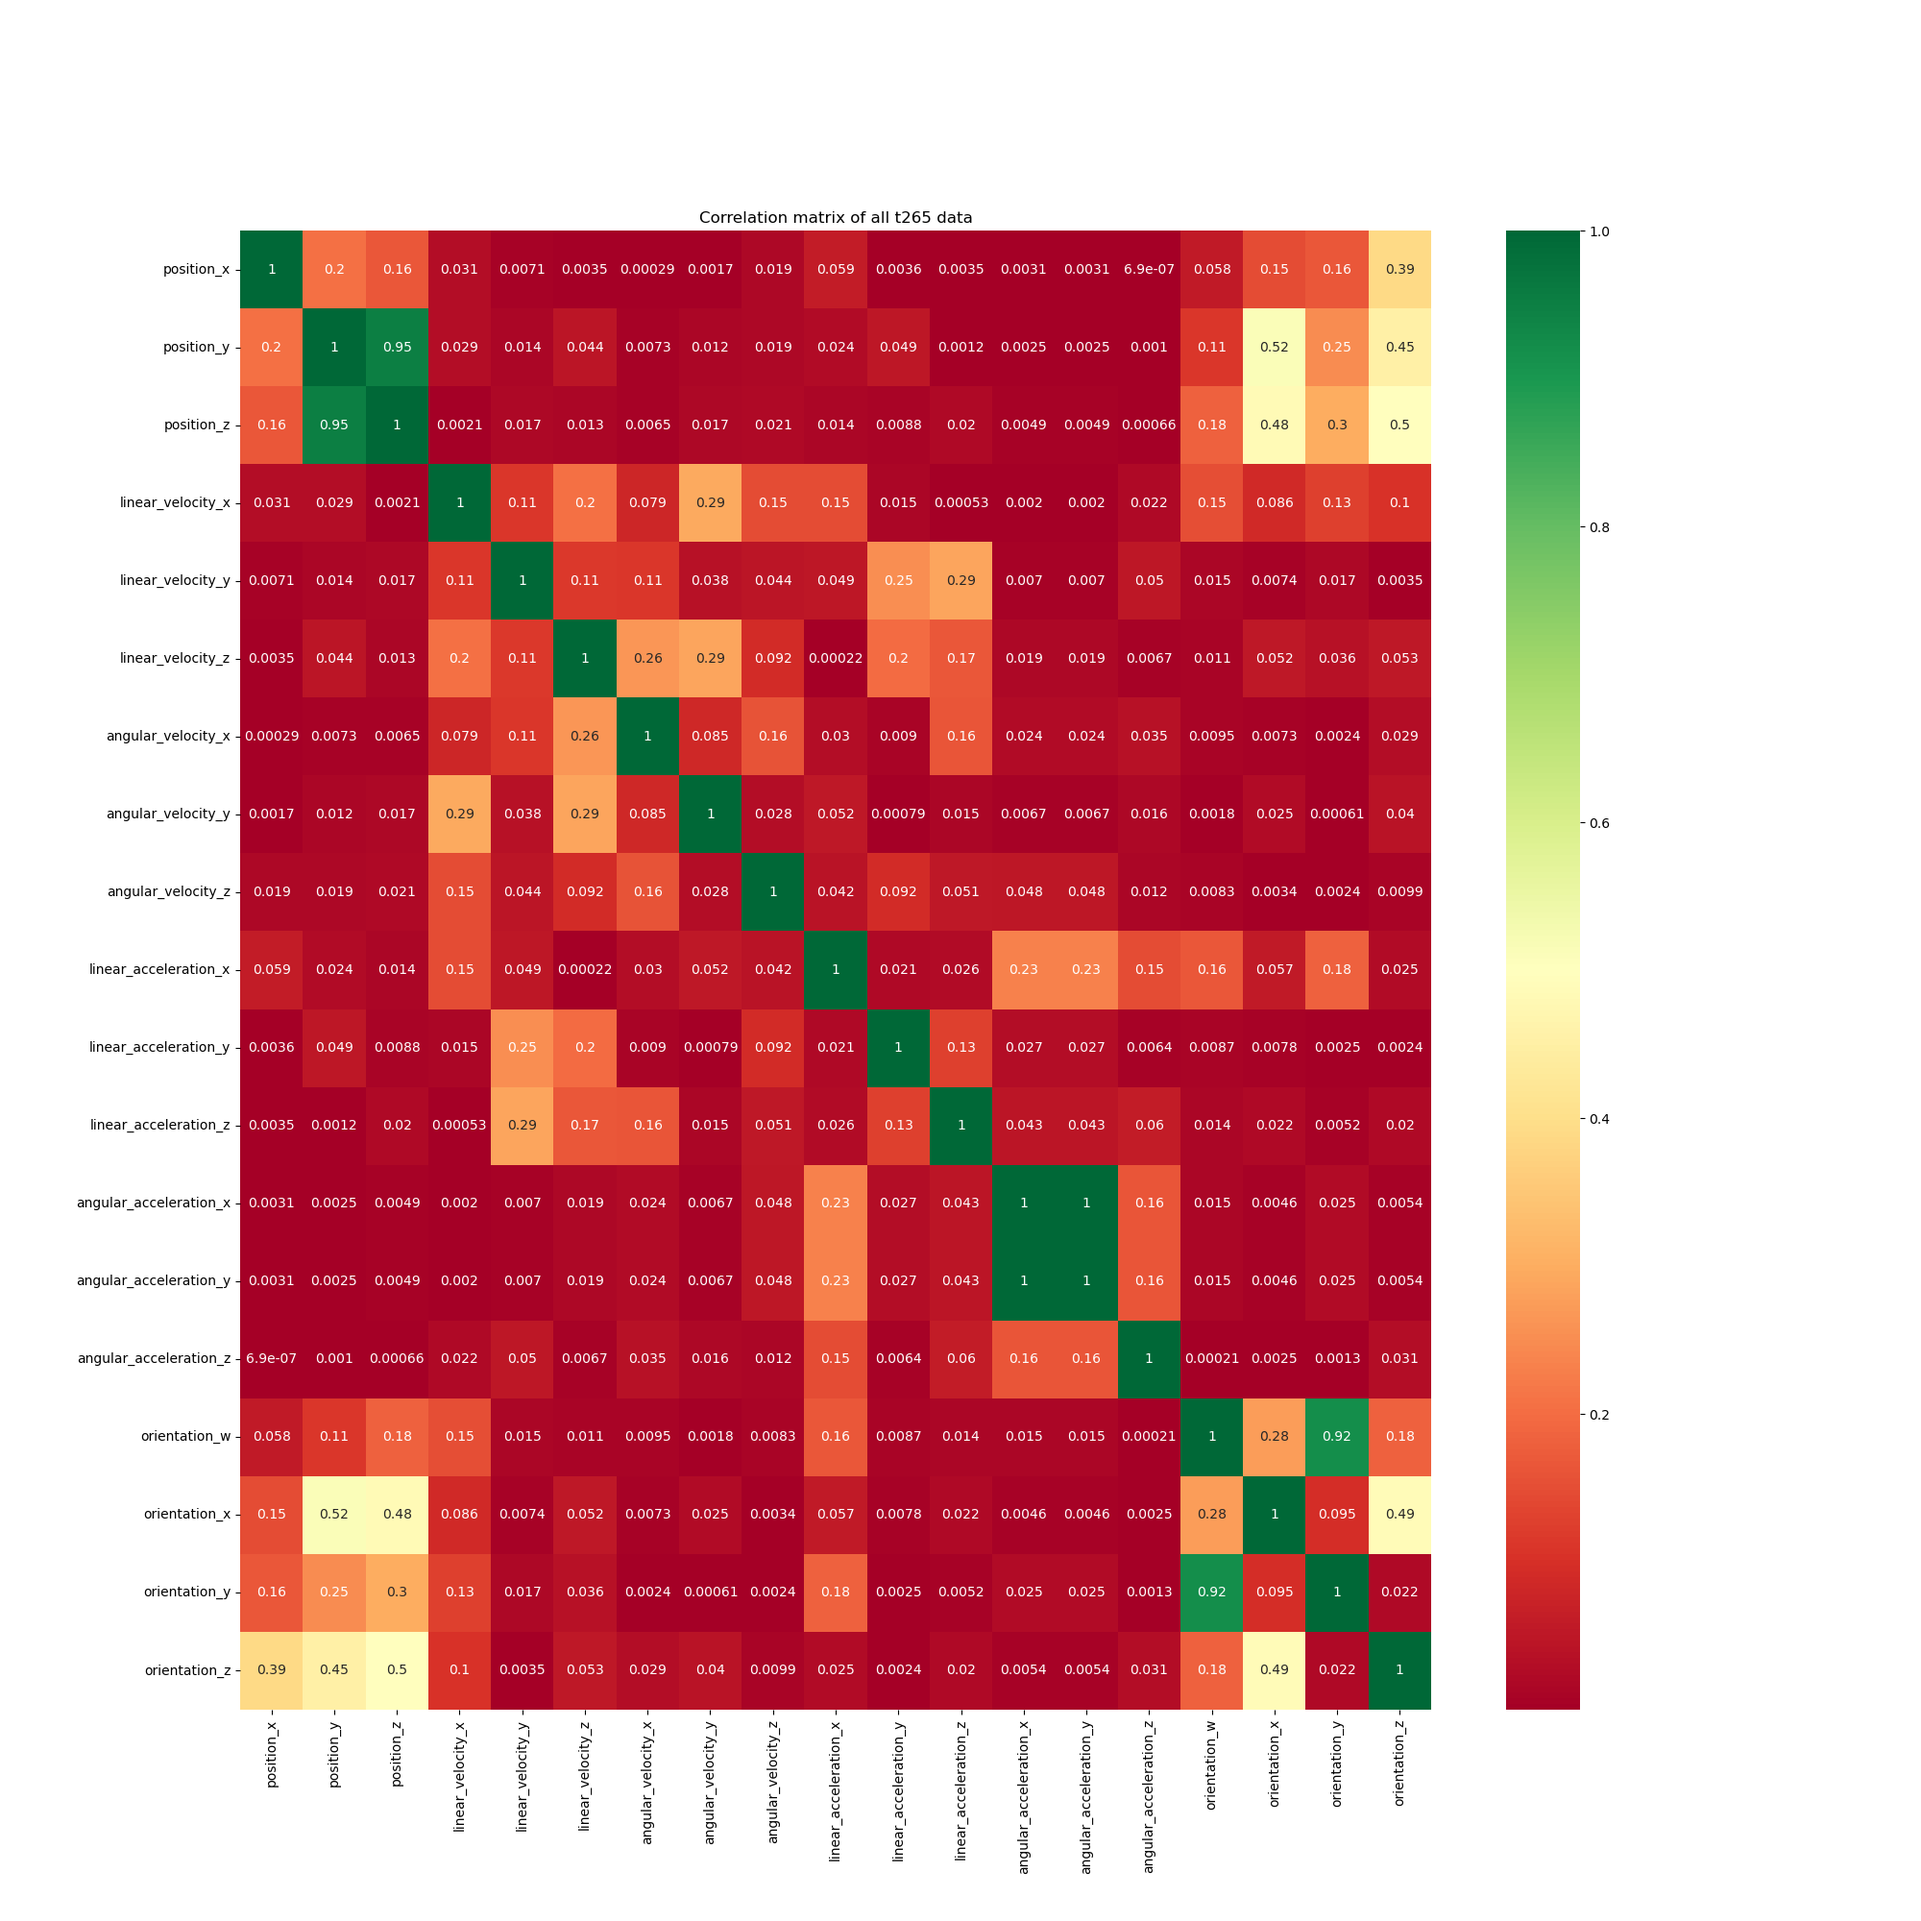
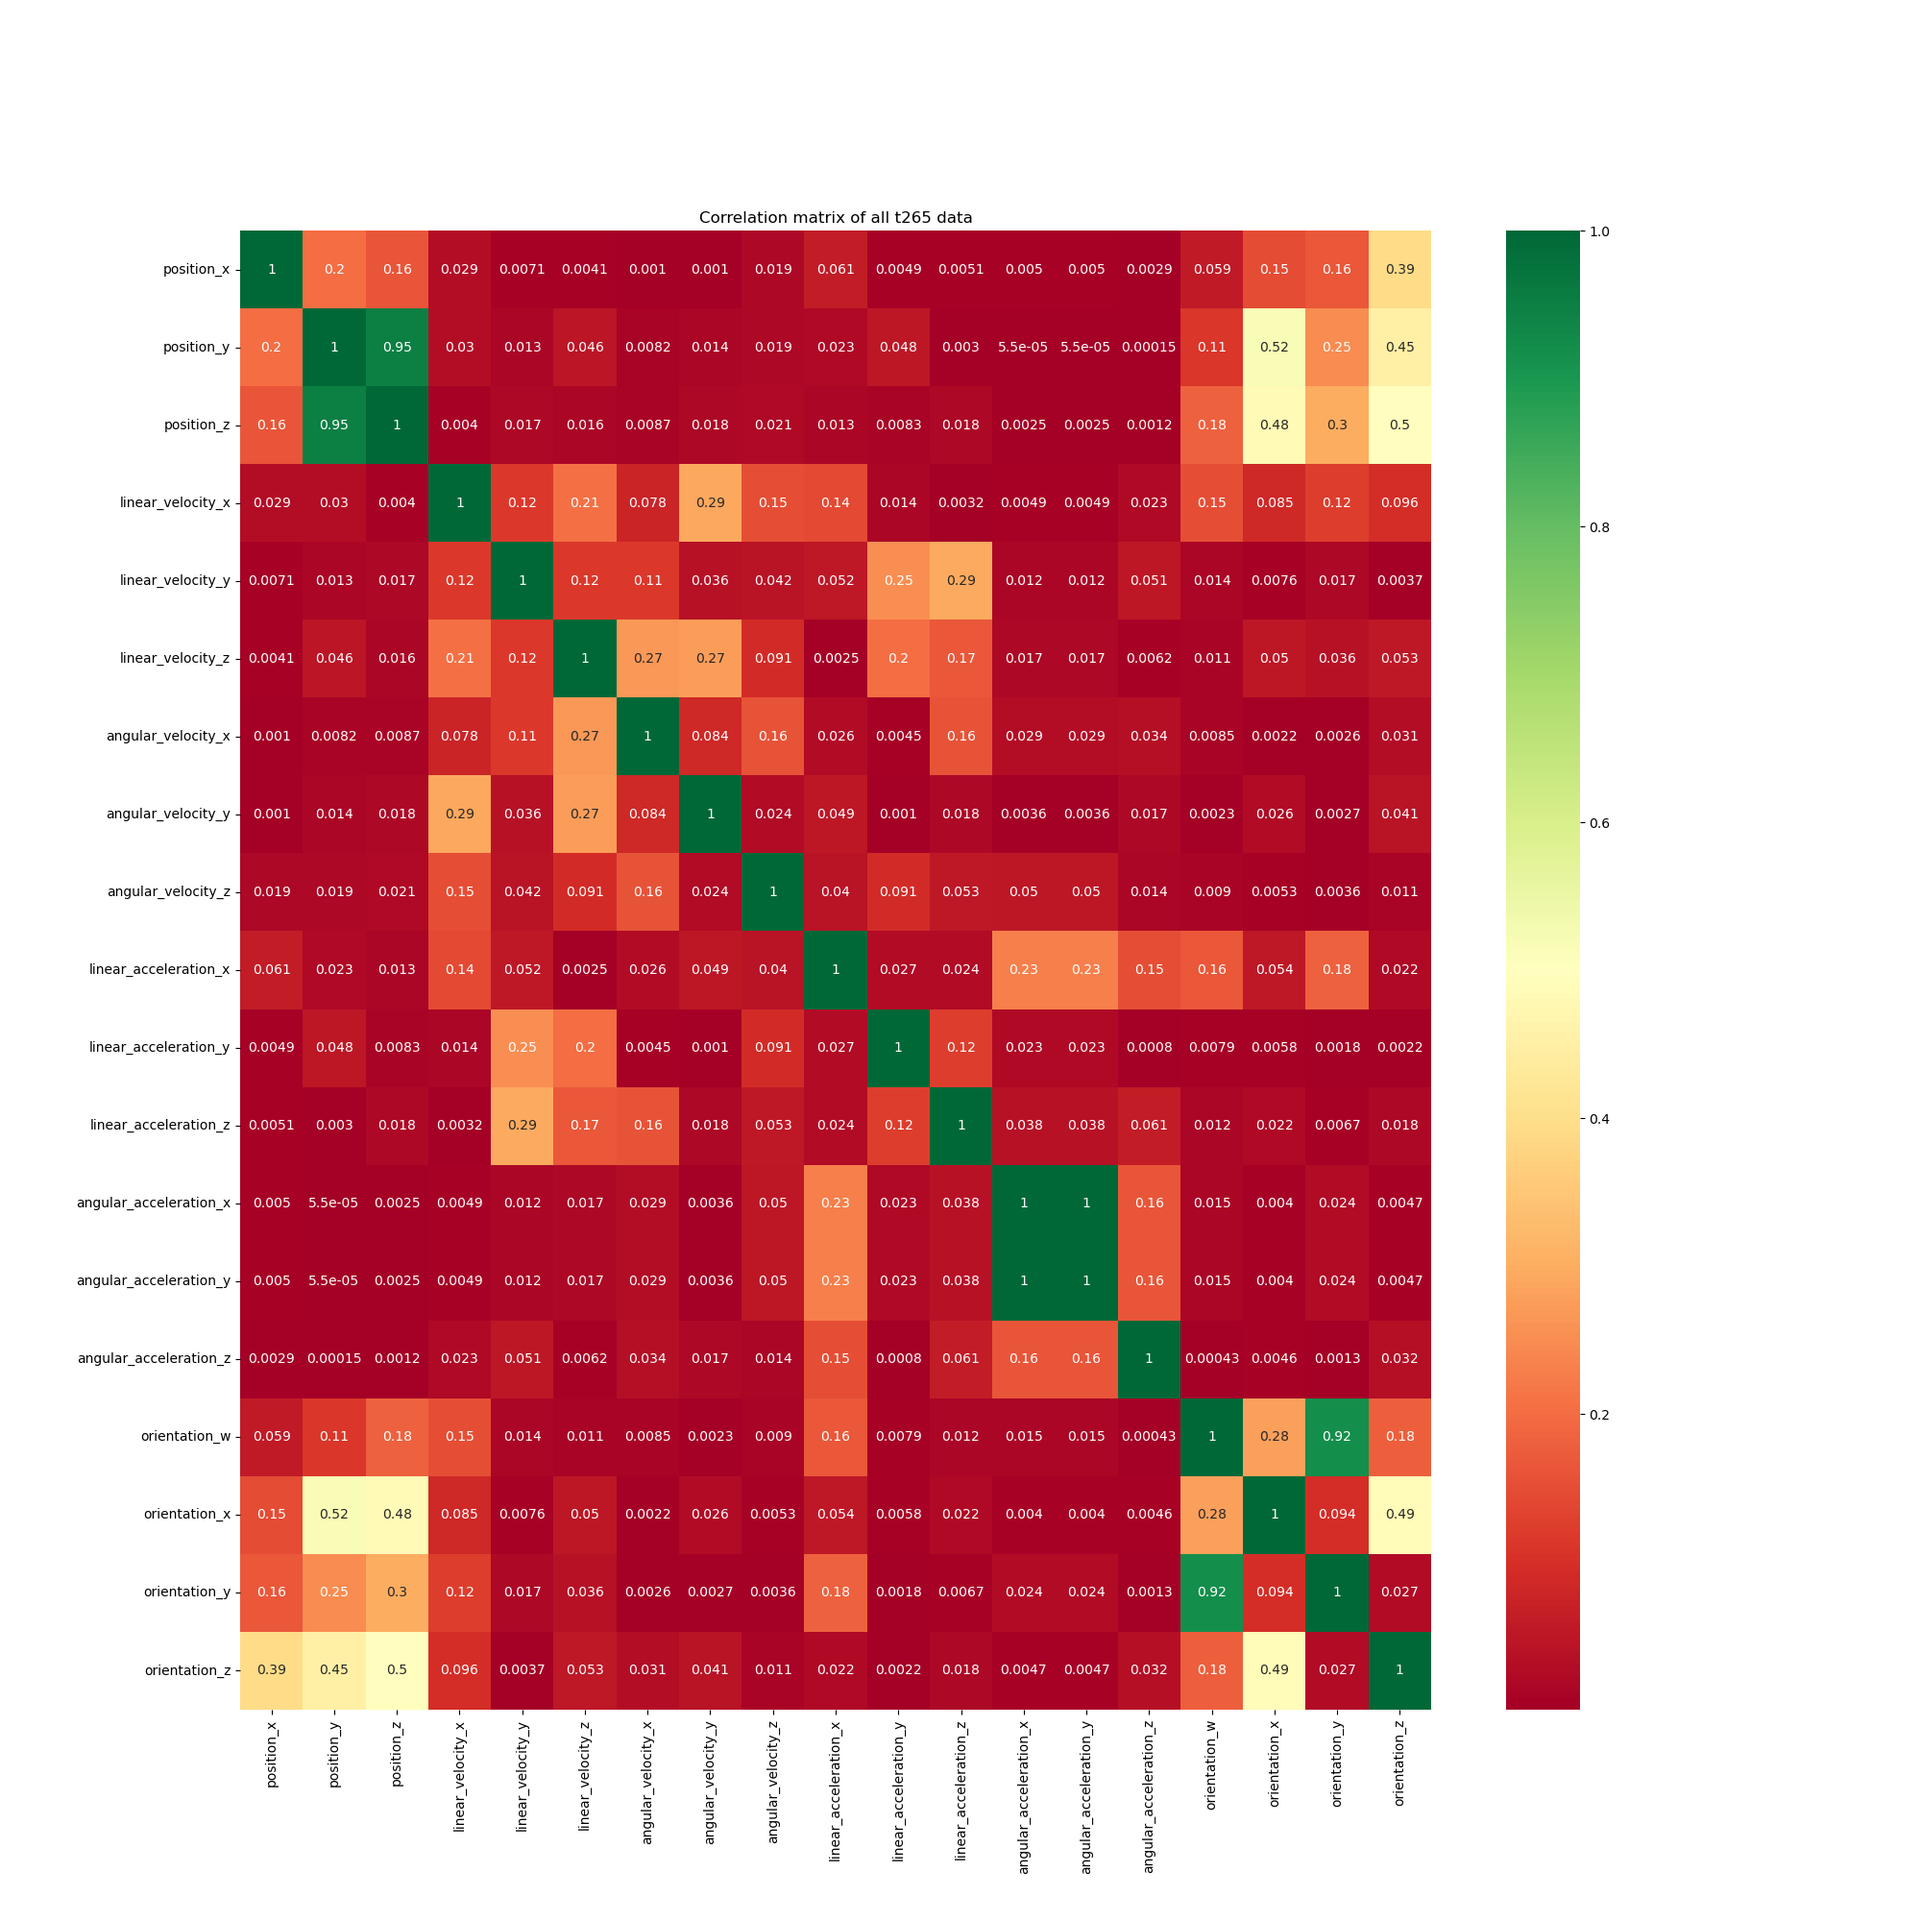
Probability plots

diff --git a/walk_predictor_t265.py b/walk_predictor_t265.py
@@ -18,6 +18,9 @@ import seaborn as sns
 from sklearn.ensemble import GradientBoostingClassifier
 from sklearn.model_selection import GridSearchCV
 from sklearn.metrics import accuracy_score
+from scipy import stats
+from sklearn.preprocessing import StandardScaler
+
 class WalkPredictor():
     def __init__(self):
         print('initialize WalkPredictor')
@@ -103,13 +106,26 @@ class WalkPredictor():
         self.y = DataFrame(self.odometry.labels.values, columns=['labels'])
         self.x_train, self.x_test, self.y_train, self.y_test = train_test_split(self.x,self.y, train_size=0.8)
     def pre_process(self):
+        # #Scale data 
+        scaler = StandardScaler()
+        scaled_data = scaler.fit(self.x_train).transform(self.x_train)
+        self.x_train = DataFrame(scaled_data, columns = self.x_train.columns)
+        scaled_data_test = scaler.fit(self.x_test).transform(self.x_test)
+        self.x_test = DataFrame(scaled_data_test, columns = self.x_test.columns)
+        #Log Transform - Should I transform or scale first?
+        # for col_name in self.x_train.columns:
+        #     self.x_train[col_name] = np.log10(self.x_train[col_name])
+        #     self.x_test[col_name] = np.log10(self.x_test[col_name])
         # Find features with correlation greater than 0.90
         corr_matrix = np.abs(self.x_train.astype(float).corr())
         upper = corr_matrix.where(np.triu(np.ones(corr_matrix.shape), k=1).astype(np.bool))
-        to_drop = [column for column in upper.columns if any(upper[column] >= 0.88)]
+        to_drop = [column for column in upper.columns if any(upper[column] >= 0.75)]
         self.x_train = self.x_train.drop(columns=to_drop)
         self.x_test = self.x_test.drop(columns=to_drop)
-        print(f'features to drop: {to_drop}')
+        print(f'features to drop (coef > 0.75): {to_drop}')
+        #Probability plots - normal distribution
+        for col_name in self.x_train.columns:
+            self.prob_plots(col_name)
         #plot heat map
         top_corr_features = corr_matrix.index
         plt.figure(figsize=(20,20))
@@ -117,7 +133,17 @@ class WalkPredictor():
         g=sns.heatmap(corr_matrix[top_corr_features],annot=True,cmap="RdYlGn")
         plt.savefig('correlations.png')
         plt.close()
-        pass
+
+    def prob_plots(self,col_name):
+        fig = plt.figure()
+        ax1 = fig.add_subplot(111)
+        stats.probplot(self.x_train[col_name], dist=stats.norm, plot=ax1)
+        title = f'probPlot of training data against normal distribution, feature: {col_name}'  
+        ax1.set_title(title,fontsize=10)
+        save_name = 'probplot_' + col_name + '.png'
+        plt.tight_layout()
+        plt.savefig(os.path.join(os.getcwd(), 'prob_plots',save_name), dpi=200)
+
     def learn(self):
         Gradclass = GradientBoostingClassifier()
         Grad_perm = {
@@ -134,9 +160,8 @@ class WalkPredictor():
         print('GradientBoostingClassifier - best params: ',search_Grad.best_params_)
         Gradclass_err = accuracy_score(self.y_test, search_Grad.predict(self.x_test))
         print('GradientBoostingClassifier accuracy',Gradclass_err)
-        pass
-    def prob_plots(self,col_name):
-        pass
+        print('check the amount of Walks (1) and Non-Walks (0) training  data: ',self.y_train.value_counts())
+        print('check the amount of Walks (1) and Non-Walks (0) test  data: ',self.y_test.value_counts())
     def feature_importances(self,model):
         pass
 
